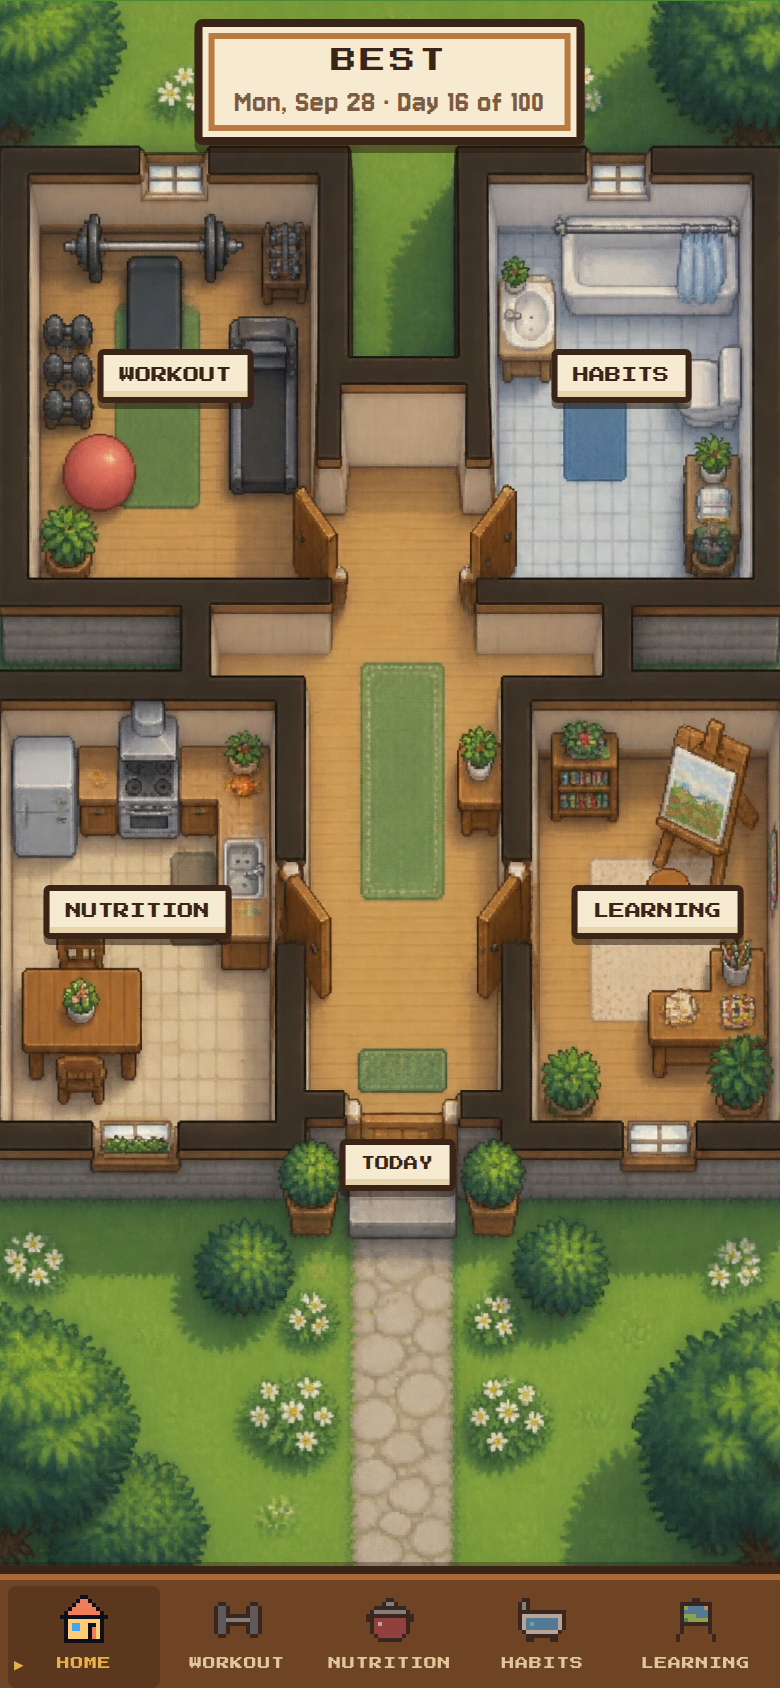
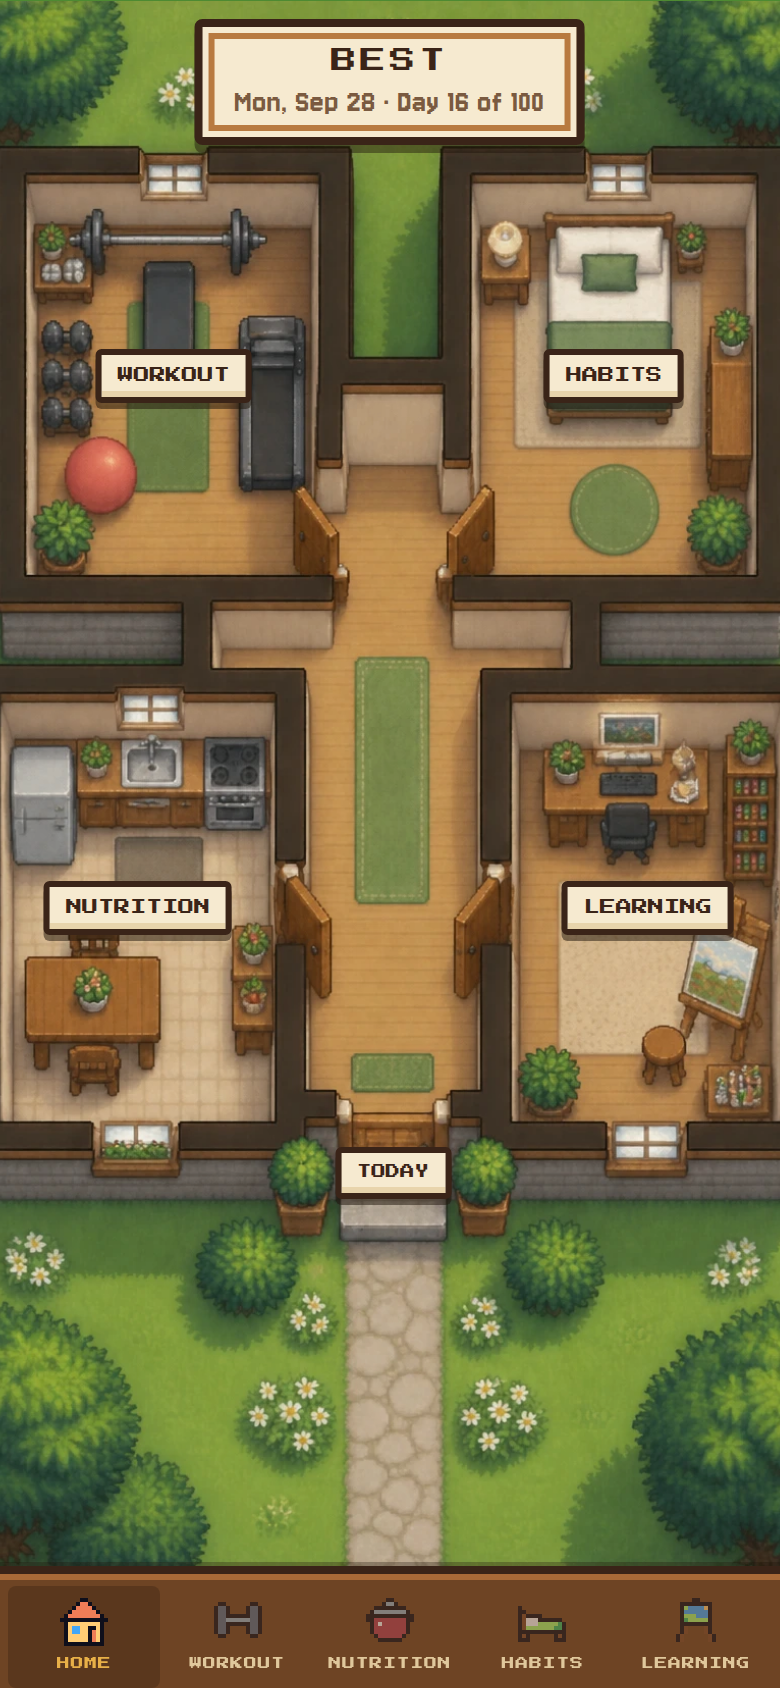
Swap in the new house picture: bedroom and office-studio
The top-right room is now a bedroom (Habits) and the bottom-right an
office-studio (Learning). Room tap areas are re-measured for the new
864x1536 artwork, the bedroom gets a wood floor, and the Habits menu
icon is now a bed.

Claude-Session: https://claude.ai/code/session_015f4TZa5jnU1TLq842My61f

diff --git a/src/components/rooms.ts b/src/components/rooms.ts
@@ -1,14 +1,14 @@
 // Rooms of the house artwork (public/img/house.webp), in the image's own pixels.
 export const HOUSE_IMG = `${import.meta.env.BASE_URL}img/house.webp`
-export const IMG_W = 1152
-export const IMG_H = 2048
+export const IMG_W = 864
+export const IMG_H = 1536
 
-export type RoomId = 'gym' | 'bathroom' | 'kitchen' | 'studio' | 'entrance'
+export type RoomId = 'gym' | 'bedroom' | 'kitchen' | 'office' | 'entrance'
 
 export const ROOMS: Record<RoomId, { name: string; what: string; to: string; x: number; y: number; w: number; h: number }> = {
-  gym: { name: 'Workout', what: 'Training log', to: '/workout', x: 67, y: 189, w: 457, h: 608 },
-  bathroom: { name: 'Habits', what: 'Sleep, weight & routines', to: '/habits', x: 666, y: 189, w: 425, h: 608 },
-  kitchen: { name: 'Nutrition', what: 'Food log', to: '/food', x: 26, y: 875, w: 440, h: 638 },
-  studio: { name: 'Learning', what: 'Progress', to: '/progress', x: 722, y: 875, w: 407, h: 638 },
-  entrance: { name: 'Today', what: "Today's plan", to: '/today', x: 500, y: 1180, w: 170, h: 440 },
+  gym: { name: 'Workout', what: 'Training log', to: '/workout', x: 45, y: 142, w: 350, h: 453 },
+  bedroom: { name: 'Habits', what: 'Sleep, weight & routines', to: '/habits', x: 482, y: 142, w: 340, h: 453 },
+  kitchen: { name: 'Nutrition', what: 'Food log', to: '/food', x: 18, y: 650, w: 334, h: 480 },
+  office: { name: 'Learning', what: 'Progress', to: '/progress', x: 520, y: 650, w: 330, h: 480 },
+  entrance: { name: 'Today', what: "Today's plan", to: '/today', x: 375, y: 900, w: 120, h: 320 },
 }

diff --git a/src/index.css b/src/index.css
@@ -732,15 +732,19 @@ input[type='checkbox']:checked {
   padding-bottom: calc(var(--nav-h) + 24px);
 }
 
-.floor-gym, .floor-studio, .floor-hall {
+.floor-gym, .floor-office, .floor-bedroom, .floor-hall {
   background-color: #c68a4c;
   background-image:
     repeating-linear-gradient(180deg, transparent 0 22px, #a86a38 22px 24px),
     repeating-linear-gradient(90deg, transparent 0 96px, rgba(110, 68, 36, 0.35) 96px 98px);
 }
 
-.floor-studio {
+.floor-office {
   background-color: #d09656;
+}
+
+.floor-bedroom {
+  background-color: #cf9454;
 }
 
 .floor-hall {
@@ -752,13 +756,6 @@ input[type='checkbox']:checked {
   background-image:
     repeating-linear-gradient(90deg, transparent 0 30px, #c0a878 30px 32px),
     repeating-linear-gradient(180deg, transparent 0 30px, #c0a878 30px 32px);
-}
-
-.floor-bath {
-  background-color: #e6eef4;
-  background-image:
-    repeating-linear-gradient(90deg, transparent 0 22px, #c2d2de 22px 24px),
-    repeating-linear-gradient(180deg, transparent 0 22px, #c2d2de 22px 24px);
 }
 
 .room-wall {
@@ -830,8 +827,8 @@ input[type='checkbox']:checked {
   left: 50%;
   top: 50%;
   transform: translate(-50%, -50%);
-  height: max(100%, calc(100vw * 2048 / 1152));
-  max-height: calc(480px * 2048 / 1152);
+  height: max(100%, calc(100vw * 16 / 9));
+  max-height: calc(480px * 16 / 9);
   min-height: 100%;
 }
 

diff --git a/src/pages/Habits.tsx b/src/pages/Habits.tsx
@@ -29,9 +29,9 @@ export default function Habits() {
   const existingCheckIn = data.checkIns.find((c) => c.date === iso)
 
   return (
-    <div className="page room-page floor-bath">
+    <div className="page room-page floor-bedroom">
 
-      <RoomHeader room="bathroom" title="Daily log" subtitle="Sleep, weight, heart rate and routines">
+      <RoomHeader room="bedroom" title="Daily log" subtitle="Sleep, weight, heart rate and routines">
         <div className="top-bar">
           <Link to={`/habits/${addDays(iso, -1)}`} className="arrow-btn" aria-label="Previous day">◀</Link>
           <strong>{formatHuman(iso)}</strong>

diff --git a/src/pages/Progress.tsx b/src/pages/Progress.tsx
@@ -38,8 +38,8 @@ export default function Progress() {
   const waistDelta = lastCheckIn && prevCheckIn ? +(lastCheckIn.waistCm! - prevCheckIn.waistCm!).toFixed(1) : null
 
   return (
-    <div className="page room-page floor-studio">
-      <RoomHeader room="studio" title="Progress" subtitle={`Day ${info.dayNum} of ${PLAN_LENGTH_DAYS} · ${info.phaseName ?? ''}`} />
+    <div className="page room-page floor-office">
+      <RoomHeader room="office" title="Progress" subtitle={`Day ${info.dayNum} of ${PLAN_LENGTH_DAYS} · ${info.phaseName ?? ''}`} />
 
       <div className="card">
         <h2>100-day calendar</h2>

diff --git a/src/components/sprites.ts b/src/components/sprites.ts
@@ -72,18 +72,18 @@ export const SPRITES = {
     '...kkkkkk...',
     '............',
   ],
-  bathtub: [
-    '.kk.........',
-    'ksk.........',
-    'ksk.........',
+  bed: [
+    '............',
+    '............',
+    'k...........',
+    'kk..........',
+    'khkkkk......',
+    'khwwwkkkkkk.',
+    'khwwwgggggGk',
+    'khgggggggGGk',
     'kkkkkkkkkkkk',
-    'kwwwwwwwwwwk',
-    'kwbbbbbbbbwk',
-    'kwbcbbbbbbwk',
-    'kwbbbbbbbbwk',
-    '.kwwwwwwwwk.',
-    '..kkkkkkkk..',
-    '..kk....kk..',
+    'khk......khk',
+    'kkk......kkk',
     '............',
   ],
   easel: [

diff --git a/src/App.tsx b/src/App.tsx
@@ -12,7 +12,7 @@ const NAV_ITEMS: { to: string; label: string; sprite: SpriteName; end?: boolean 
   { to: '/', label: 'Home', sprite: 'house', end: true },
   { to: '/workout', label: 'Workout', sprite: 'dumbbell' },
   { to: '/food', label: 'Nutrition', sprite: 'pot' },
-  { to: '/habits', label: 'Habits', sprite: 'bathtub' },
+  { to: '/habits', label: 'Habits', sprite: 'bed' },
   { to: '/progress', label: 'Learning', sprite: 'easel' },
 ]
 
